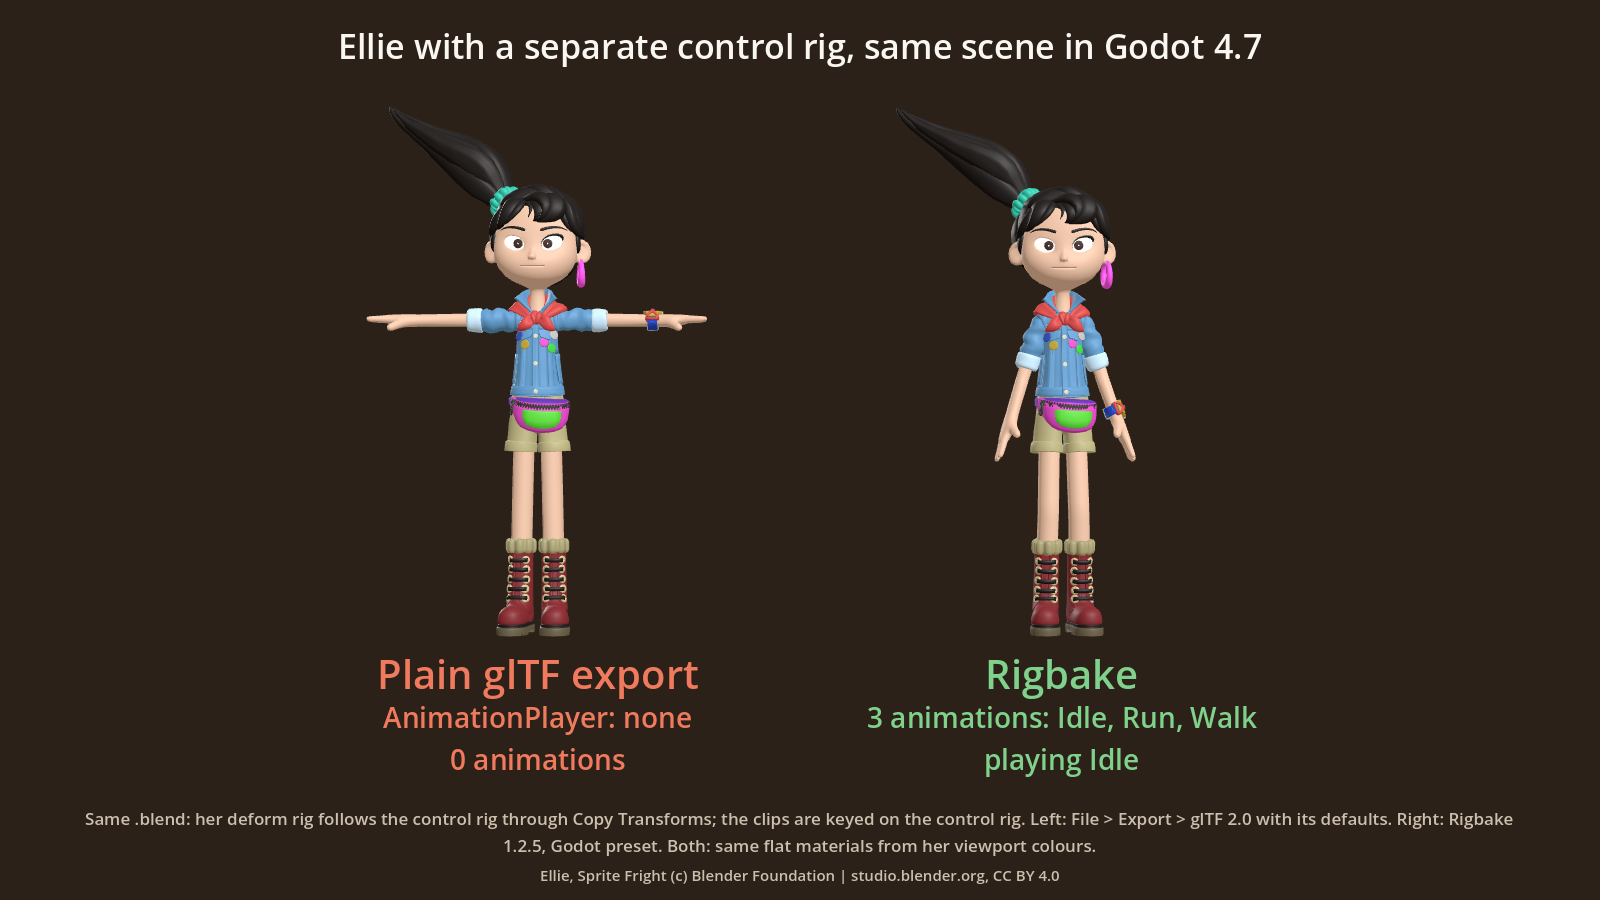
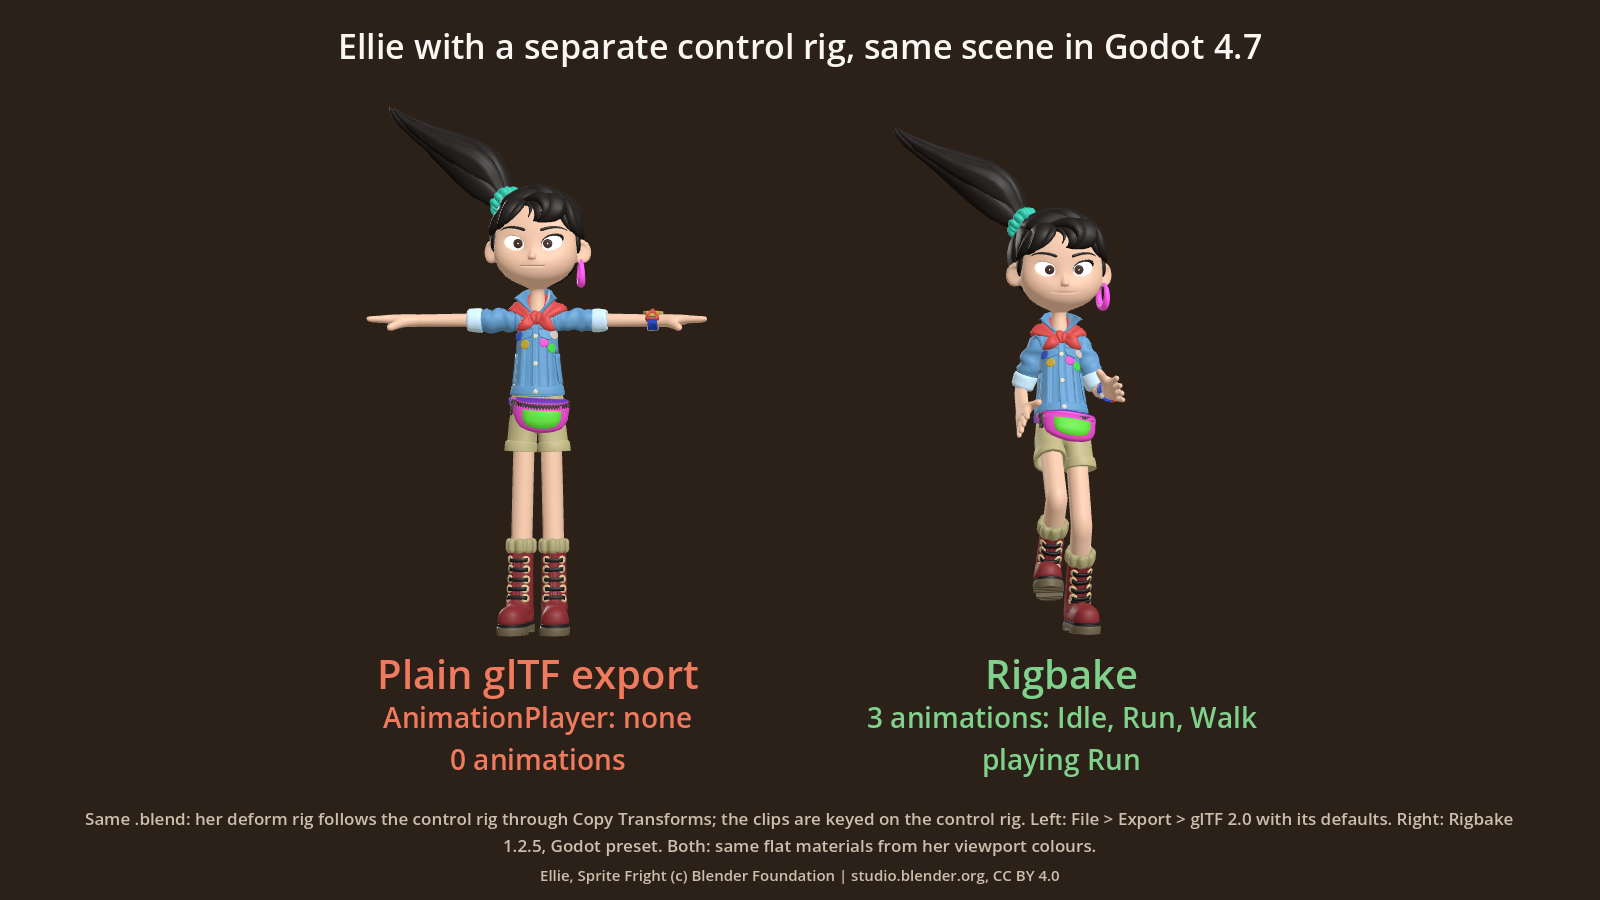
Rigbake hero and control-rig image: Rigbake's Ellie now mid-stride in Run (0.46 s), not standing in Idle (ads critique round 3, weak 1; handoff R3-C1)
Re-rendered from the V8 pipeline: Ellie bundle SHA-256 547a9974..., bpy 4.2.0, Rigbake 1.2.5 (a64992c9...),
exports byte-identical to V8 (plain_default.glb 12f51ef8..., rigbake_godot.glb 4e1e5f1c...), Godot 4.7.2 official
(SHA-512 checked). The Idle frame re-rendered first was pixel-identical to the old image. Labels written by main.gd
from the live state: plain 0 AnimationPlayers / 0 animations; Rigbake Idle, Run, Walk, playing Run.
Alt texts on the page and guide 2 say Run.

Changed region(s): [[0.5625, 0.1556, 0.7188, 0.7156], [0.5938, 0.84, 0.7188, 0.8711]]

diff --git a/rigbake/index.html b/rigbake/index.html
@@ -14,12 +14,12 @@
 <meta property="og:image" content="https://ochrestack.com/rigbake/img/control-rig-godot-2x1.png">
 <meta property="og:image:width" content="1600">
 <meta property="og:image:height" content="800">
-<meta property="og:image:alt" content="Blender Studio's Ellie with a separate control rig, in Godot 4.7: Blender's default glTF export has 0 animations and she stands in her T-pose; Rigbake's export has Idle, Run and Walk and she plays Idle">
+<meta property="og:image:alt" content="Blender Studio's Ellie with a separate control rig, in Godot 4.7: Blender's default glTF export has 0 animations and she stands in her T-pose; Rigbake's export has Idle, Run and Walk and she is mid-stride in Run">
 <meta name="twitter:card" content="summary_large_image">
 <meta name="twitter:title" content="Rigbake for Blender: one clean animation clip per action">
 <meta name="twitter:description" content="Control rig or NLA clips? Blender's default export can come out empty or with wrong, duplicated takes. Rigbake exports one clean clip per action. Checked in Godot 4.7.">
 <meta name="twitter:image" content="https://ochrestack.com/rigbake/img/control-rig-godot-2x1.png">
-<meta name="twitter:image:alt" content="Ellie with a control rig in Godot 4.7: plain glTF export, 0 animations, T-pose; Rigbake, 3 animations, playing Idle">
+<meta name="twitter:image:alt" content="Ellie with a control rig in Godot 4.7: plain glTF export, 0 animations, T-pose; Rigbake, 3 animations, playing Run">
 <link rel="icon" href="../icon.svg" type="image/svg+xml">
 <style>
   :root { --ochre: #C8842B; --ochre-text: #8A5A1A; --ink: #2B2118; --paper: #FAF7F2; --muted: #5A4E43; }
@@ -74,7 +74,7 @@
 </header>
 <main>
   <h1>Rigbake for Blender</h1>
-  <a href="img/control-rig-ellie-godot.png"><img class="hero" src="img/control-rig-godot-2x1.png" alt="Godot 4.7, the same scene: on the left Ellie from Blender's default glTF export stands in her T-pose, labelled 'Plain glTF export, 0 animations' (the file has no AnimationPlayer at all); on the right Ellie from Rigbake's export, labelled 'Rigbake, 3 animations' (Idle, Run and Walk), playing Idle" width="1600" height="800"></a>
+  <a href="img/control-rig-ellie-godot.png"><img class="hero" src="img/control-rig-godot-2x1.png" alt="Godot 4.7, the same scene: on the left Ellie from Blender's default glTF export stands in her T-pose, labelled 'Plain glTF export, 0 animations' (the file has no AnimationPlayer at all); on the right Ellie from Rigbake's export, labelled 'Rigbake, 3 animations' (Idle, Run and Walk), mid-stride in Run" width="1600" height="800"></a>
   <p class="sub">Control rig or NLA clips? Blender's default export can come out empty or with wrong, duplicated takes. Rigbake exports one clean, correctly named clip per action.</p>
 
   <div class="buy">
@@ -87,7 +87,7 @@
   <p class="fine">Above: same .blend, Godot 4.7. Blender's default glTF export has 0 animations; Rigbake's has Idle, Run and Walk, every deform bone within 0.00001 m.</p>
   <details>
     <summary>How this image was made</summary>
-    <p>The character is Blender Studio's Ellie (CC BY 4.0). Her production rig is the control rig: it holds the Idle, Walk and Run keys on its NLA. A separate deform rig made of her 312 deform bones follows it through Copy Transforms. Both files come from the same .blend in Blender 4.2. Left: File &gt; Export &gt; glTF 2.0 with its defaults (deform rig and meshes selected); the file has no animation, so she stands in her bind pose. The default FBX export also has 0. Right: Rigbake 1.2.5 with its Godot preset; each of the 312 deform bones is within 0.00001 m of the live rig at the frames we checked. Both sides use the same flat colours, because her procedural shaders don't export to glTF. Her teeth and fanny-pack zipper are parented to bones on both sides, because the Surface Deform they use doesn't export.</p>
+    <p>The character is Blender Studio's Ellie (CC BY 4.0). Her production rig is the control rig: it holds the Idle, Walk and Run keys on its NLA. A separate deform rig made of her 312 deform bones follows it through Copy Transforms. Both files come from the same .blend in Blender 4.2. Left: File &gt; Export &gt; glTF 2.0 with its defaults (deform rig and meshes selected); the file has no animation, so she stands in her bind pose. The default FBX export also has 0. Right: Rigbake 1.2.5 with its Godot preset, shown 0.46 s into Run; each of the 312 deform bones is within 0.00001 m of the live rig at the frames we checked. Both sides use the same flat colours, because her procedural shaders don't export to glTF. Her teeth and fanny-pack zipper are parented to bones on both sides, because the Surface Deform they use doesn't export.</p>
   </details>
 
   <div class="box warn">

diff --git a/guides/control-rig-no-animations/index.html b/guides/control-rig-no-animations/index.html
@@ -19,7 +19,7 @@
 <meta name="twitter:title" content="Blender export has no animations? The control-rig case">
 <meta name="twitter:description" content="A deform rig that follows a control rig has no actions of its own, so Blender's default glTF and FBX exports write 0 animations. Why, the free workaround, and its limit.">
 <meta name="twitter:image" content="https://ochrestack.com/rigbake/img/control-rig-godot-2x1.png">
-<meta name="twitter:image:alt" content="Ellie with a control rig in Godot 4.7: plain glTF export, 0 animations, T-pose; Rigbake's export, 3 animations, playing Idle">
+<meta name="twitter:image:alt" content="Ellie with a control rig in Godot 4.7: plain glTF export, 0 animations, T-pose; Rigbake's export, 3 animations, playing Run">
 <link rel="icon" href="../../icon.svg" type="image/svg+xml">
 <style>
   :root { --ochre: #C8842B; --ochre-text: #8A5A1A; --ink: #2B2118; --paper: #FAF7F2; --muted: #5A4E43; }
@@ -95,7 +95,7 @@
   </table>
   <p>The result was the same on Blender 4.2, 4.5 and 5.0. In a separate check, a tester built a second character from scratch in this style (a control rig with IK feet and four clips; a deform rig whose 18 bones follow it through Copy Transforms) and got the same: 0 animations in glTF and in FBX, both when re-imported into Blender and when imported into Godot 4.7.</p>
   <figure>
-    <img src="../img/control-rig-ellie-godot.png" alt="Godot 4.7, the same scene: on the left Ellie from Blender's default glTF export stands in her T-pose bind pose, labelled 'Plain glTF export, AnimationPlayer: none, 0 animations'; on the right Ellie from Rigbake's export stands in her Idle pose, labelled 'Rigbake, 3 animations: Idle, Run, Walk, playing Idle'" width="1600" height="900" loading="lazy">
+    <img src="../img/control-rig-ellie-godot.png" alt="Godot 4.7, the same scene: on the left Ellie from Blender's default glTF export stands in her T-pose bind pose, labelled 'Plain glTF export, AnimationPlayer: none, 0 animations'; on the right Ellie from Rigbake's export is mid-stride in Run, labelled 'Rigbake, 3 animations: Idle, Run, Walk, playing Run'" width="1600" height="900" loading="lazy">
     <figcaption>The same pattern on a production character, in Godot 4.7: plain glTF gives 0 animations (left), and Rigbake gives 3 clips (right). The character is Blender Studio's Ellie (CC BY 4.0). Her own rig holds the Idle, Walk and Run keys on its NLA. A separate deform rig of her 312 deform bones follows it through Copy Transforms, and her meshes are bound to that deform rig. Blender 4.2's default glTF and FBX exports of the deform rig and meshes both contain 0 animations. Rigbake's Godot preset wrote Idle, Run and Walk, each matching the live rig within 0.00001 m on every deform bone at the frames we checked. Both sides use the same flat colours, and her teeth and fanny-pack zipper are bone-parented on both sides, because glTF can't carry their shaders or Surface Deform.</figcaption>
   </figure>
 
